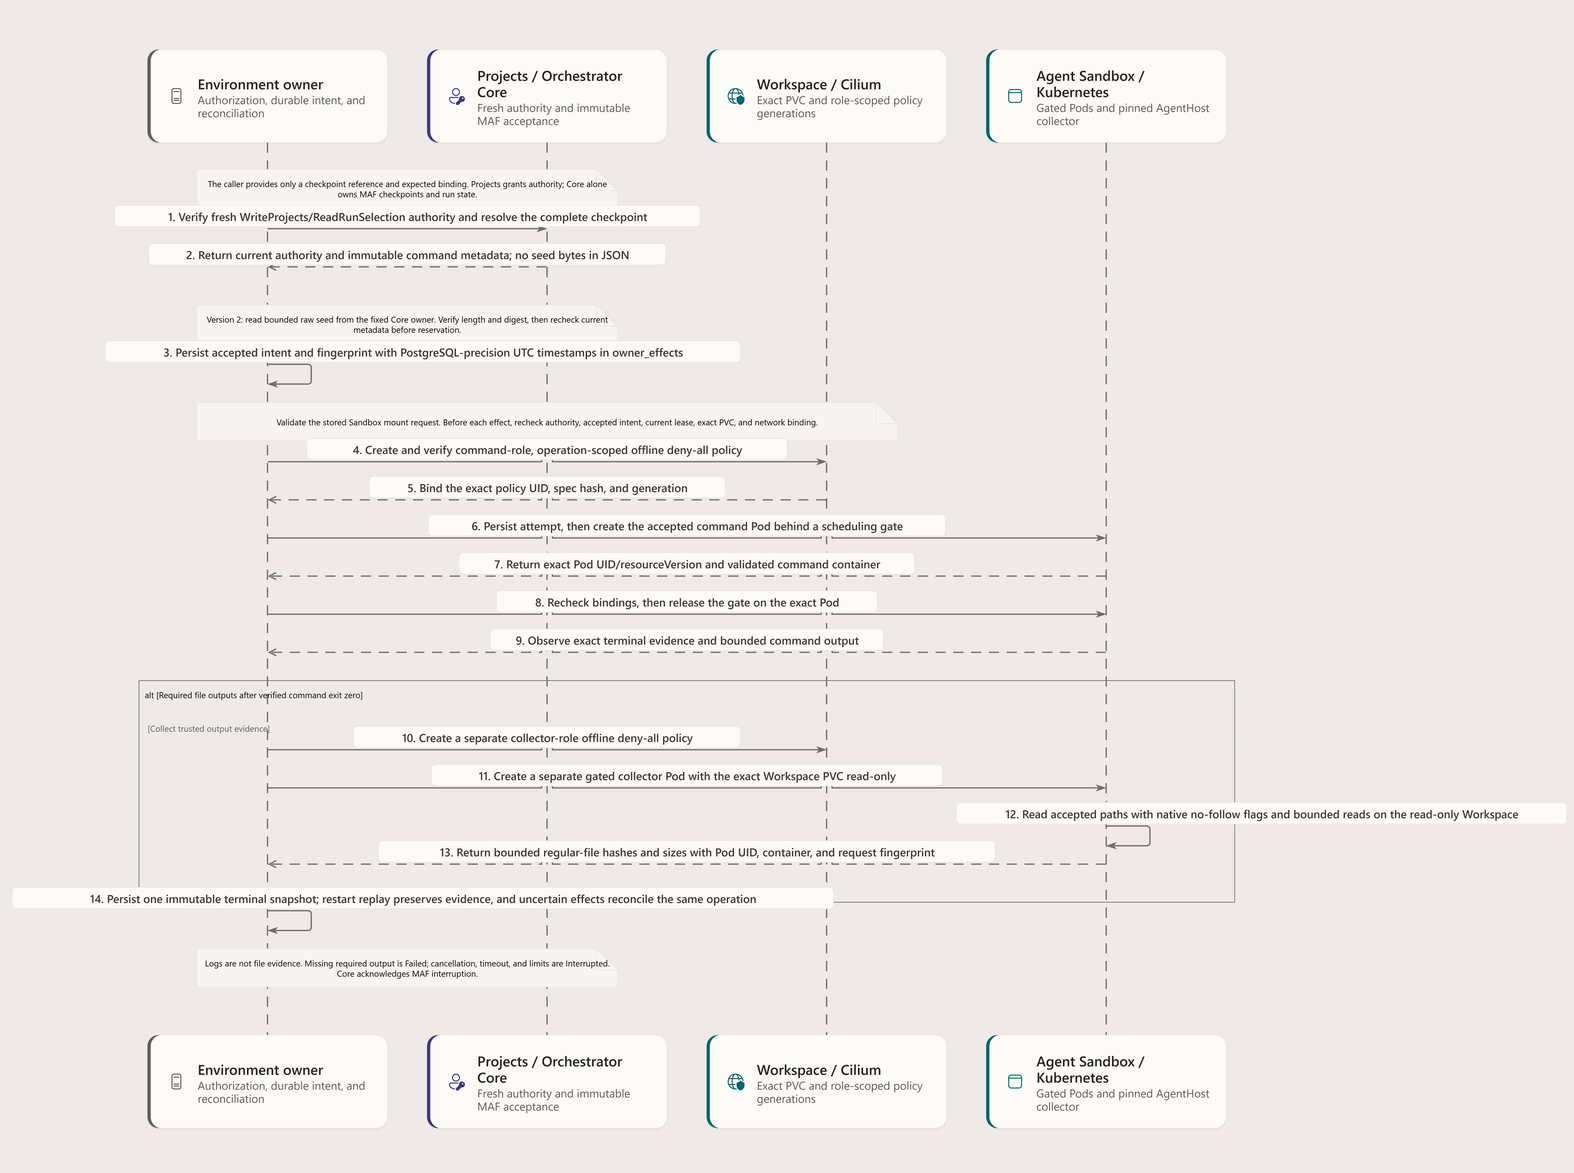
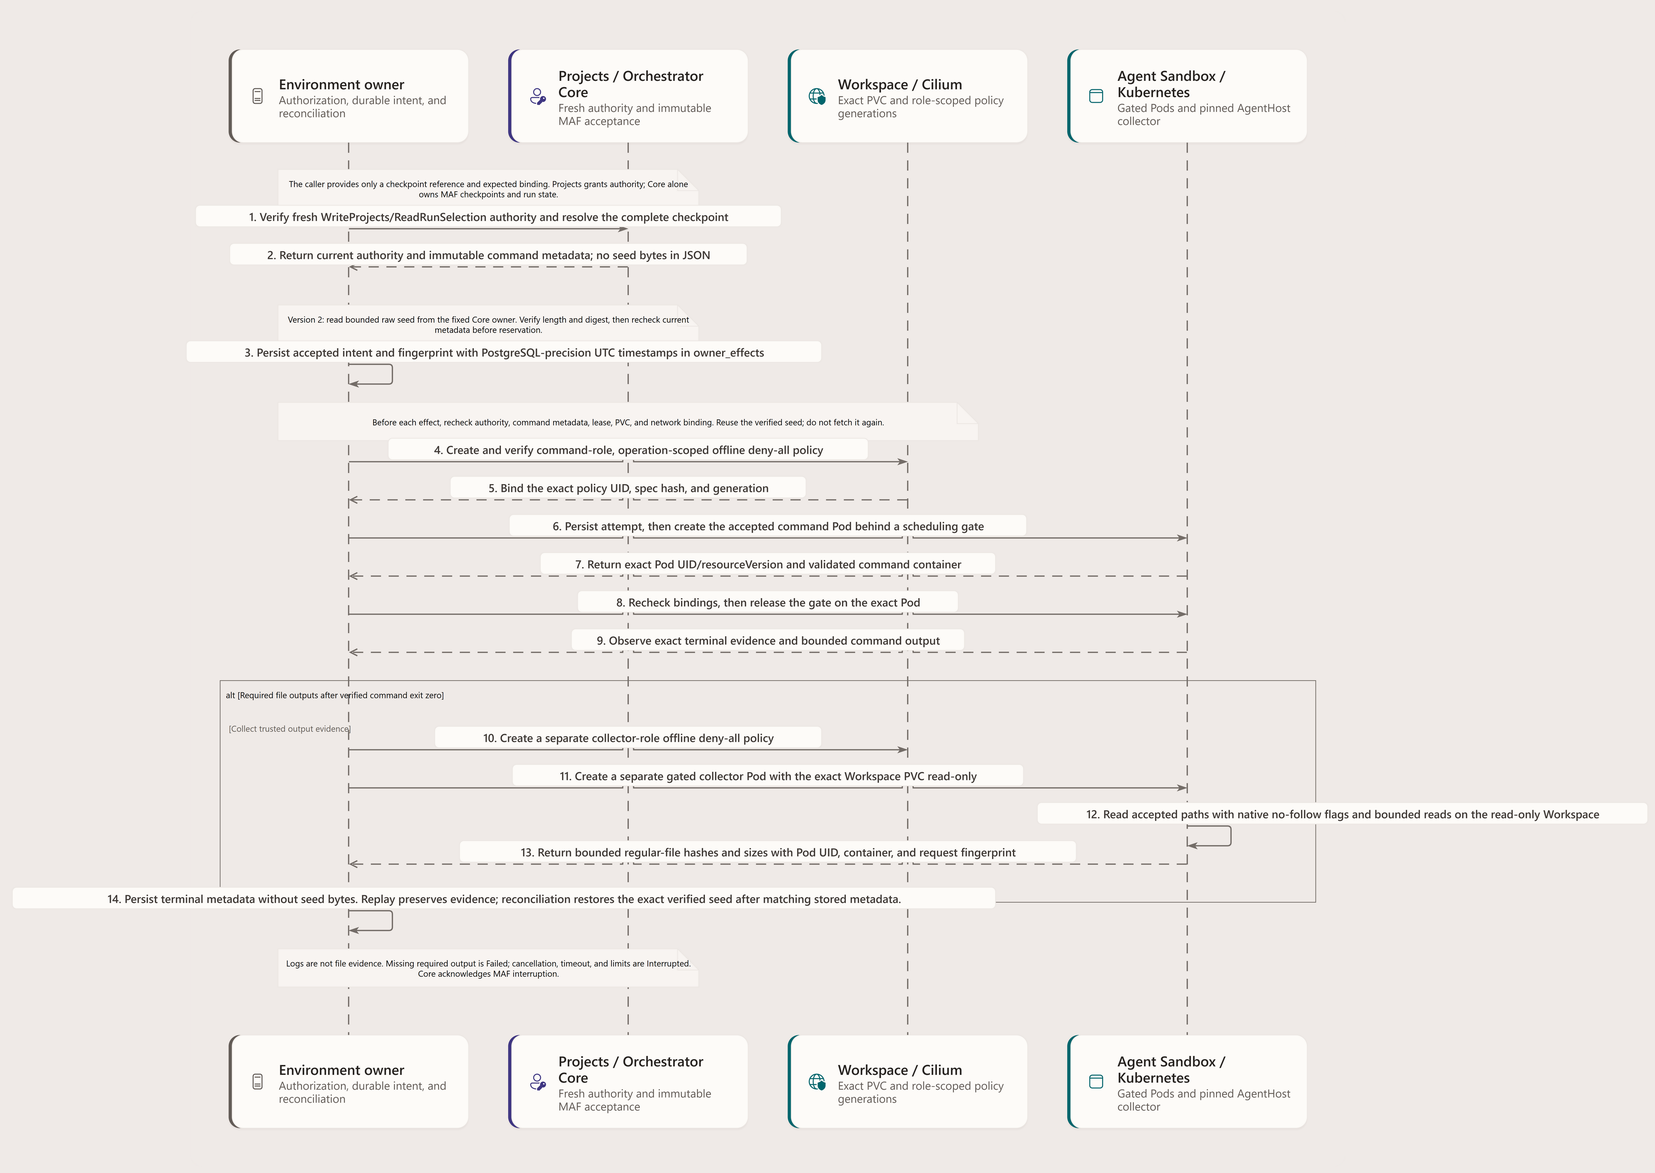
Fix reviewed BuildTest metadata recovery and repeated owner checks
Address the three code-review findings and both simplification findings. Keep seed validation strict at execution while restoring metadata-only persistence and terminal recovery.

diff --git a/tests/Agentweaver.Environment.Tests/SandboxBuildTestCommandContractTests.cs b/tests/Agentweaver.Environment.Tests/SandboxBuildTestCommandContractTests.cs
@@ -1,6 +1,7 @@
 using System.Collections.Immutable;
 using System.Security.Cryptography;
 using System.Text.Json;
+using System.Text.Json.Serialization;
 using Agentweaver.Abstractions;
 using Agentweaver.Environment;
 
@@ -92,6 +93,67 @@ public sealed class SandboxBuildTestCommandContractTests
             (command with { WorkspaceSeed = new byte[1023].ToImmutableArray() }).Validate());
         Assert.Throws<ArgumentException>(() =>
             (command with { WorkspaceSeed = Enumerable.Repeat((byte)1, 1024).ToImmutableArray() }).Validate());
+    }
+
+    [Fact]
+    public void VersionTwoStoredStateRecoversUpdatesAndReplaysWithMetadataOnly()
+    {
+        var command = SeedCommand();
+        command = command with { ImmutableHash = command.ComputeImmutableHash() };
+        var fixture = CreateFixture() with { Command = command };
+        var state = new EnvironmentSandboxBuildTestCommandState(
+            command, CreateSnapshot(fixture), ["command-pod:create"]);
+        var options = new JsonSerializerOptions(JsonSerializerDefaults.Web)
+        {
+            Converters = { new JsonStringEnumConverter(JsonNamingPolicy.CamelCase) }
+        };
+        var commandJson = JsonSerializer.Serialize(command, options);
+        Assert.DoesNotContain("workspaceSeed", commandJson);
+        var row = new EnvironmentSandboxBuildTestCommandStore.StoredRow(
+            fixture.Request.ExpectedBinding.Fence.Owner, "BuildTestCommand",
+            fixture.Request.ComputeRequestFingerprint(command), commandJson,
+            JsonSerializer.Serialize(fixture.Request.ExpectedBinding, options),
+            EnvironmentSandboxBuildTestCommandStore.SerializeMutableState(state),
+            state.Operation.CreatedAt);
+
+        var restored = EnvironmentSandboxBuildTestCommandStore.DeserializeState(row);
+        Assert.Null(restored.AcceptedCommand.WorkspaceSeed);
+        Assert.Equal(command.ImmutableHash, restored.AcceptedCommand.ValidateMetadata().ImmutableHash);
+        Assert.Equal(row.Fingerprint, fixture.Request.ComputeRequestFingerprint(restored.AcceptedCommand));
+        Assert.Same(restored.Operation, restored.Operation.Validate(
+            restored.AcceptedCommand, command.ExecutionOptions.MaximumOutputBytes));
+        Assert.Throws<ArgumentException>(() => restored.AcceptedCommand.Validate());
+        var updated = restored with
+        {
+            Operation = restored.Operation with
+            {
+            Status = SandboxBuildTestOperationStatus.Stale,
+            FailureCode = "buildtest_checkpoint_stale",
+            UpdatedAt = restored.Operation.UpdatedAt.AddSeconds(1)
+            },
+            AttemptedEffects = restored.AttemptedEffects.Add("command-pod:observed")
+        };
+        var replay = EnvironmentSandboxBuildTestCommandStore.DeserializeState(row with
+        {
+            TargetBindingJson = EnvironmentSandboxBuildTestCommandStore.SerializeMutableState(updated)
+        });
+        Assert.Equal(SandboxBuildTestOperationStatus.Stale, replay.Operation.Status);
+        Assert.Equal(updated.AttemptedEffects.ToArray(), replay.AttemptedEffects.ToArray());
+        Assert.Equal(row.Fingerprint, fixture.Request.ComputeRequestFingerprint(replay.AcceptedCommand));
+
+        var executable = EnvironmentSandboxBuildTestCommandManager.RestoreAcceptedCommand(restored, command);
+        Assert.Equal(command.WorkspaceSeed!.Value.ToArray(),
+            executable.AcceptedCommand.Validate().WorkspaceSeed!.Value.ToArray());
+        Assert.Throws<ArgumentException>(() =>
+            EnvironmentSandboxBuildTestCommandManager.RestoreAcceptedCommand(restored, command with
+            {
+            WorkspaceSeed = null
+            }));
+        var changed = command with { Arguments = ["other"] };
+        changed = changed with { ImmutableHash = changed.ComputeImmutableHash() };
+        var conflict = Assert.Throws<EnvironmentLifecycleException>(() =>
+            EnvironmentSandboxBuildTestCommandManager.RestoreAcceptedCommand(restored, changed));
+        Assert.Equal("buildtest_request_conflict", conflict.Code);
     }
 
     [Fact]

diff --git a/services/environment/Agentweaver.Environment/EnvironmentSandboxBuildTestCommandManager.cs b/services/environment/Agentweaver.Environment/EnvironmentSandboxBuildTestCommandManager.cs
@@ -142,8 +142,8 @@ public sealed class EnvironmentSandboxBuildTestCommandManager(
             ?? throw new EnvironmentLifecycleException(
                 "buildtest_operation_unknown",
                 "The exact BuildTest operation is not reserved.");
-        if (!SameJson(state.AcceptedCommand, acceptedCommand) ||
-            !SameJson(state.Operation.ExpectedBinding, request.ExpectedBinding) ||
+        state = RestoreAcceptedCommand(state, acceptedCommand);
+        if (!SameJson(state.Operation.ExpectedBinding, request.ExpectedBinding) ||
             state.Operation.RequestFingerprint != request.ComputeRequestFingerprint(acceptedCommand))
             throw new EnvironmentLifecycleException(
                 "buildtest_request_conflict",
@@ -1169,10 +1169,7 @@ public sealed class EnvironmentSandboxBuildTestCommandManager(
         EnvironmentSandboxBuildTestCommandState state,
         CancellationToken cancellationToken)
     {
-        var currentCommand = await ResolveAcceptedCommandAsync(request.Checkpoint, cancellationToken)
-            .ConfigureAwait(false);
-        if (!SameJson(currentCommand, acceptedCommand) ||
-            !SameJson(currentCommand, state.AcceptedCommand))
+        if (!SameJson(acceptedCommand, state.AcceptedCommand))
             return await MarkStaleAsync(state, "buildtest_checkpoint_stale", cancellationToken)
                 .ConfigureAwait(false);
 
@@ -1186,7 +1183,8 @@ public sealed class EnvironmentSandboxBuildTestCommandManager(
                 request,
                 acceptedCommand,
                 cancellationToken).ConfigureAwait(false);
-            await commandVerifier.VerifyCurrentAsync(acceptedCommand, cancellationToken).ConfigureAwait(false);
+            await VerifyCurrentCommandAsync(acceptedCommand, state.AcceptedCommand, cancellationToken)
+                .ConfigureAwait(false);
             if (!SameJson(current.ExpectedBinding, state.Operation.ExpectedBinding))
                 return await MarkStaleAsync(state, "sandbox_binding_stale", cancellationToken)
                     .ConfigureAwait(false);
@@ -1196,6 +1194,37 @@ public sealed class EnvironmentSandboxBuildTestCommandManager(
         {
             return await MarkStaleAsync(state, exception.Code, cancellationToken).ConfigureAwait(false);
         }
+        catch (RuntimeAuthorizationException exception) when (
+            exception.Code == "buildtest_command_checkpoint_changed")
+        {
+            return await MarkStaleAsync(state, "buildtest_checkpoint_stale", cancellationToken)
+                .ConfigureAwait(false);
+        }
+    }
+
+    internal async Task VerifyCurrentCommandAsync(
+        SandboxBuildTestAcceptedCommand acceptedCommand,
+        SandboxBuildTestAcceptedCommand persistedCommand,
+        CancellationToken cancellationToken)
+    {
+        _ = acceptedCommand.ValidateMetadata();
+        _ = persistedCommand.ValidateMetadata();
+        if (!SameJson(acceptedCommand, persistedCommand))
+            throw new RuntimeAuthorizationException("buildtest_command_checkpoint_changed");
+        await commandVerifier.VerifyCurrentAsync(acceptedCommand, cancellationToken).ConfigureAwait(false);
+    }
+
+    internal static EnvironmentSandboxBuildTestCommandState RestoreAcceptedCommand(
+        EnvironmentSandboxBuildTestCommandState state,
+        SandboxBuildTestAcceptedCommand acceptedCommand)
+    {
+        acceptedCommand = acceptedCommand.Validate();
+        _ = state.AcceptedCommand.ValidateMetadata();
+        if (!SameJson(state.AcceptedCommand, acceptedCommand))
+            throw new EnvironmentLifecycleException(
+                "buildtest_request_conflict",
+                "The reconciliation request differs from its persisted immutable BuildTest intent.");
+        return state with { AcceptedCommand = acceptedCommand };
     }
 
     private static bool IsStaleBindingFailure(string code) =>

diff --git a/tests/Agentweaver.Orchestrator.Core.Tests/MafBuildTestExecutionTests.cs b/tests/Agentweaver.Orchestrator.Core.Tests/MafBuildTestExecutionTests.cs
@@ -21,6 +21,48 @@ public sealed class MafBuildTestExecutionTests
         Converters = { new JsonStringEnumConverter(JsonNamingPolicy.CamelCase) }
     };
 
+    [Theory]
+    [InlineData(SandboxBuildTestOperationStatus.Completed)]
+    [InlineData(SandboxBuildTestOperationStatus.Failed)]
+    [InlineData(SandboxBuildTestOperationStatus.Stale)]
+    public void VersionTwoTerminalCheckpointRecoversAndReplaysWithoutEmbeddingTheSeed(
+        SandboxBuildTestOperationStatus status)
+    {
+        var taskStatus = status switch
+        {
+            SandboxBuildTestOperationStatus.Completed => MafExecutionTaskStatus.Succeeded,
+            SandboxBuildTestOperationStatus.Failed => MafExecutionTaskStatus.Failed,
+            _ => MafExecutionTaskStatus.Indeterminate
+        };
+        var intent = MafBuildTestCheckpointTests.SeedIntent();
+        var initial = new MafExecutionCheckpointSnapshot(new("root", "initial"),
+            new(1, "plan-1", 3, MafExecutionProgress.Empty));
+        var running = CoordinationEndpoints.PrepareBuildTestCheckpoint(initial, intent)!;
+        var recoveredRunning = MafExecutionCheckpointContract.Deserialize(
+            MafExecutionCheckpointContract.Serialize(running));
+        var restored = recoveredRunning.BuildTestIntents["build-test"];
+        Assert.Null(restored.WorkspaceSeed);
+        var operation = Operation(intent) with { Status = status };
+        if (status == SandboxBuildTestOperationStatus.Failed)
+            operation = operation with
+            {
+                Terminal = operation.Terminal! with { ExitCode = 1 }, FailureCode = "command_failed"
+            };
+
+        Assert.Equal(taskStatus, MafBuildTestCommandContract.Classify(restored, operation));
+        var completed = CoordinationEndpoints.PrepareBuildTestCompletionCheckpoint(
+            new(new("root", intent.CheckpointId), recoveredRunning), restored, operation)!;
+        var serialized = MafExecutionCheckpointContract.Serialize(completed);
+        Assert.DoesNotContain("\"workspaceSeed\":", serialized.GetRawText());
+        var recovered = MafExecutionCheckpointContract.Deserialize(serialized);
+        Assert.Equal(taskStatus, recovered.Progress.NonModelSteps["build-test"]);
+        Assert.Equal(taskStatus, recovered.BuildTestReceipts["build-test"].ValidateFor(
+            recovered.BuildTestIntents["build-test"]));
+        Assert.Null(CoordinationEndpoints.PrepareBuildTestCompletionCheckpoint(
+            new(new("root", "completed"), recovered), restored, operation));
+        Assert.Throws<ArgumentException>(() => restored.ToAcceptedCommand());
+    }
+
     [Fact]
     public void TerminalAndRequiredOutputJoinAdvancesTheDependentModelFrontier()
     {

diff --git a/tests/Agentweaver.Environment.Tests/EnvironmentSandboxBuildTestAcceptedCommandVerifierTests.cs b/tests/Agentweaver.Environment.Tests/EnvironmentSandboxBuildTestAcceptedCommandVerifierTests.cs
@@ -1,3 +1,4 @@
+using System.Collections.Immutable;
 using System.Net;
 using System.Net.Http.Headers;
 using System.Security.Claims;
@@ -26,6 +27,46 @@ public sealed class EnvironmentSandboxBuildTestAcceptedCommandVerifierTests
         Assert.Single(handler.Requests);
         Assert.DoesNotContain("/workspace-seed", handler.Requests[0].Uri);
         Assert.True(handler.Requests[0].NoStore);
+    }
+
+    [Fact]
+    public async Task ManagerEffectChecksReuseTheVerifiedSeedAndReadOnlyCurrentOwnerMetadata()
+    {
+        var command = CreateSeedCommand() with { WorkspaceSeed = new byte[1024].ToImmutableArray() };
+        var handler = new SeedCommandHandler(command);
+        using var client = new HttpClient(handler);
+        var manager = new EnvironmentSandboxBuildTestCommandManager(
+            null!, null!, null!, null!, CreateVerifier(client), null!, null!, TimeProvider.System, null!);
+        var persisted = command with { WorkspaceSeed = null };
+
+        for (var effect = 0; effect < 3; effect++)
+            await manager.VerifyCurrentCommandAsync(command, persisted, CancellationToken.None);
+
+        Assert.Equal(3, handler.Requests.Count);
+        Assert.All(handler.Requests, request =>
+        {
+            Assert.DoesNotContain("/workspace-seed", request.Uri);
+            Assert.True(request.NoStore);
+        });
+        Assert.Equal(new byte[1024], command.WorkspaceSeed!.Value.ToArray());
+    }
+
+    [Fact]
+    public async Task ManagerEffectCheckRejectsChangedPersistedIntentWithoutAnyOwnerRequest()
+    {
+        var command = CreateSeedCommand();
+        var changed = command with { Arguments = ["other"] };
+        changed = changed with { ImmutableHash = changed.ComputeImmutableHash() };
+        var handler = new SeedCommandHandler(command);
+        using var client = new HttpClient(handler);
+        var manager = new EnvironmentSandboxBuildTestCommandManager(
+            null!, null!, null!, null!, CreateVerifier(client), null!, null!, TimeProvider.System, null!);
+
+        var failure = await Assert.ThrowsAsync<RuntimeAuthorizationException>(() =>
+            manager.VerifyCurrentCommandAsync(command, changed, CancellationToken.None));
+
+        Assert.Equal("buildtest_command_checkpoint_changed", failure.Code);
+        Assert.Empty(handler.Requests);
     }
 
     [Theory]

diff --git a/services/orchestrator/Agentweaver.Orchestrator/ReviewedRemoteToolResultEndpoints.cs b/services/orchestrator/Agentweaver.Orchestrator/ReviewedRemoteToolResultEndpoints.cs
@@ -187,38 +187,8 @@ internal sealed class ReviewedRemoteToolResultVerifier(
     private static void RequireSnapshotBinding(ReviewedRemoteToolSnapshot snapshot, RemoteToolResultProof proof)
     {
         if (!SameReference(snapshot.Reference, proof.Snapshot) ||
-            SnapshotBinding(snapshot) != proof.SnapshotBinding)
+            ReviewedRemoteToolAgent.SnapshotBinding(snapshot) != proof.SnapshotBinding)
             throw new RuntimeAuthorizationException("runtime_remote_tool_result_snapshot_binding_invalid");
-    }
-
-    private static RemoteToolResultSnapshotBinding SnapshotBinding(ReviewedRemoteToolSnapshot snapshot)
-    {
-        var pin = snapshot.RegistryServerPin;
-        return new(
-            snapshot.ConnectionId,
-            snapshot.ConnectionRowRevision,
-            snapshot.ConnectionConfigurationRevision,
-            snapshot.ConnectionDiscoveryRevision,
-            snapshot.ConnectionState,
-            snapshot.ConfigurationSha256,
-            snapshot.EndpointUri,
-            snapshot.ResourceUri,
-            snapshot.AuthenticationMode,
-            snapshot.IdentityBindingReference,
-            snapshot.TransportProfile,
-            pin?.ServerName,
-            pin?.ExactVersion,
-            pin?.MetadataSha256,
-            snapshot.CatalogRevision,
-            snapshot.CatalogDigest,
-            snapshot.ToolId,
-            snapshot.ToolRevision,
-            snapshot.ToolDigest,
-            snapshot.ToolSchemaRevision,
-            snapshot.ToolSchemaDigest,
-            snapshot.Permission.ActionId,
-            snapshot.Permission.Purpose,
-            snapshot.Permission.Digest);
     }
 
     private static void RequireExactCall(ReviewedRemoteToolCall call, RemoteToolResultProof proof)

diff --git a/services/environment/Agentweaver.Environment/EnvironmentSandboxBuildTestCommandStore.cs b/services/environment/Agentweaver.Environment/EnvironmentSandboxBuildTestCommandStore.cs
@@ -538,13 +538,13 @@ public sealed class EnvironmentSandboxBuildTestCommandStore(
             : null;
     }
 
-    private static EnvironmentSandboxBuildTestCommandState DeserializeState(StoredRow row)
+    internal static EnvironmentSandboxBuildTestCommandState DeserializeState(StoredRow row)
     {
         try
         {
             var accepted = JsonSerializer.Deserialize<SandboxBuildTestAcceptedCommand>(
                 row.SpecificationJson,
-                JsonOptions)?.Validate()
+                JsonOptions)?.ValidateMetadata()
                 ?? throw new JsonException("The persisted BuildTest command is empty.");
             var expected = JsonSerializer.Deserialize<SandboxBuildTestExpectedBinding>(
                 row.ExpectedBindingJson,
@@ -574,7 +574,7 @@ public sealed class EnvironmentSandboxBuildTestCommandStore(
         }
     }
 
-    private static string SerializeMutableState(EnvironmentSandboxBuildTestCommandState state) =>
+    internal static string SerializeMutableState(EnvironmentSandboxBuildTestCommandState state) =>
         JsonSerializer.Serialize(
             new MutableState(state.Operation, state.AttemptedEffects),
             JsonOptions);
@@ -710,7 +710,7 @@ public sealed class EnvironmentSandboxBuildTestCommandStore(
         SandboxBuildTestOperationSnapshot Operation,
         ImmutableArray<string> AttemptedEffects);
 
-    private sealed record StoredRow(
+    internal sealed record StoredRow(
         EnvironmentOwnerIdentity Owner,
         string EffectKind,
         string Fingerprint,

diff --git a/services/orchestrator/Agentweaver.Orchestrator/MafBuildTestCommandContract.cs b/services/orchestrator/Agentweaver.Orchestrator/MafBuildTestCommandContract.cs
@@ -54,7 +54,7 @@ internal static class MafBuildTestCommandContract
         MafExecutionBuildTestIntent intent,
         SandboxBuildTestOperationSnapshot operation)
     {
-        var accepted = intent.ToAcceptedCommand();
+        var accepted = intent.ToAcceptedCommand(requireSeed: false);
         _ = operation.Validate(accepted, intent.ExecutionOptions.MaximumOutputBytes);
         if (operation.RequestFingerprint != intent.ToApiRequest().ComputeRequestFingerprint(accepted) ||
             !JsonElement.DeepEquals(
@@ -98,7 +98,7 @@ internal sealed record MafBuildTestTerminalReceipt(
 {
     internal MafExecutionTaskStatus ValidateFor(MafExecutionBuildTestIntent intent)
     {
-        var accepted = intent.ToAcceptedCommand();
+        var accepted = intent.ToAcceptedCommand(requireSeed: false);
         if (OperationId != intent.OperationId || ImmutableHash != accepted.ImmutableHash ||
             RequestFingerprint != intent.ToApiRequest().ComputeRequestFingerprint(accepted) ||
             OperationEvidenceSha256 is not { Length: 64 } || !OperationEvidenceSha256.All(Uri.IsHexDigit) ||

diff --git a/packages/Agentweaver.Abstractions/SandboxBuildTestCommandContracts.cs b/packages/Agentweaver.Abstractions/SandboxBuildTestCommandContracts.cs
@@ -379,7 +379,7 @@ public sealed record SandboxBuildTestApiRequest(
     {
         ArgumentNullException.ThrowIfNull(acceptedCommand);
         _ = Validate();
-        _ = acceptedCommand.Validate();
+        _ = acceptedCommand.ValidateMetadata();
         if (!SandboxBuildTestCanonicalJson.SameCheckpoint(Checkpoint, acceptedCommand.Checkpoint))
             throw new ArgumentException("The accepted command does not match the referenced MAF checkpoint.");
 
@@ -767,7 +767,7 @@ public sealed record SandboxBuildTestOperationSnapshot(
         ArgumentNullException.ThrowIfNull(acceptedCommand);
         ArgumentNullException.ThrowIfNull(ExpectedBinding);
         ArgumentNullException.ThrowIfNull(ExpectedCommandPolicy);
-        _ = acceptedCommand.Validate();
+        _ = acceptedCommand.ValidateMetadata();
         _ = ExpectedBinding.Validate();
         ExpectedBinding.ValidateSandboxProviderBinding();
         _ = ExpectedCommandPolicy.ValidateForOperation(OperationId, SandboxBuildTestLimits.CommandPolicyRole);

diff --git a/tests/Agentweaver.EventsAndSessions.Tests/SessionMaterialPostgresTests.cs b/tests/Agentweaver.EventsAndSessions.Tests/SessionMaterialPostgresTests.cs
@@ -239,10 +239,8 @@ public sealed class SessionMaterialPostgresTests(SessionsPostgresFixture fixture
         var request = new SessionMaterialWriteRequest(
             1, eventId, _registration.RuntimeInstanceId, _registration.Revision,
             _registration.Binding.ExecutionFence, SessionMaterialKind.RemoteToolResult,
-            """{"content":[{"type":"text","text":"saved result"}]}"""u8.ToArray(),
-            SdkVersion: Source.SdkVersion, ModelId: Source.ModelId)
+            """{"content":[{"type":"text","text":"saved result"}]}"""u8.ToArray())
         {
-            MaxPromptTokens = Source.MaxPromptTokens,
             RemoteToolResultProof = proof
         };
         var acknowledgment = await Store.WriteAsync(

diff --git a/services/gateway/Agentweaver.Gateway/GatewayRunEventProjection.cs b/services/gateway/Agentweaver.Gateway/GatewayRunEventProjection.cs
@@ -16,7 +16,6 @@ internal static class GatewayRunEventProjection
     private const int MaximumCursorLength = 8192;
     private const string RemoteToolCallIdPrefix = "remote_tool_call_";
     private const string RemoteToolNamePrefix = "remote_tool_";
-    private const string RemoteToolPurpose = "runtime-remote-tool-result";
 
     private static readonly string[] EventProperties =
     [

diff --git a/services/orchestrator/Agentweaver.Orchestrator/ReviewedRemoteToolAgent.cs b/services/orchestrator/Agentweaver.Orchestrator/ReviewedRemoteToolAgent.cs
@@ -390,7 +390,7 @@ internal sealed class ReviewedRemoteToolAgent(
             contentClass);
     }
 
-    private static RemoteToolResultSnapshotBinding SnapshotBinding(ReviewedRemoteToolSnapshot snapshot)
+    internal static RemoteToolResultSnapshotBinding SnapshotBinding(ReviewedRemoteToolSnapshot snapshot)
     {
         var pin = snapshot.RegistryServerPin;
         return new(

diff --git a/tests/Agentweaver.Orchestrator.Core.Tests/MafBuildTestCheckpointTests.cs b/tests/Agentweaver.Orchestrator.Core.Tests/MafBuildTestCheckpointTests.cs
@@ -84,7 +84,7 @@ public sealed class MafBuildTestCheckpointTests
         Assert.DoesNotContain("workspaceSource", json);
     }
 
-    private static MafExecutionBuildTestIntent SeedIntent()
+    internal static MafExecutionBuildTestIntent SeedIntent()
     {
         var intent = Intent();
         var seed = new byte[1024];
